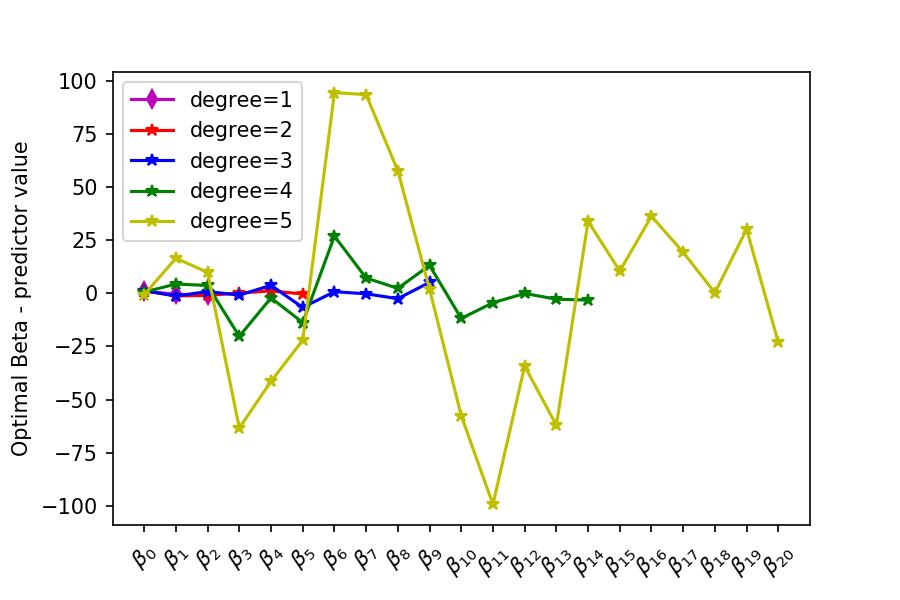
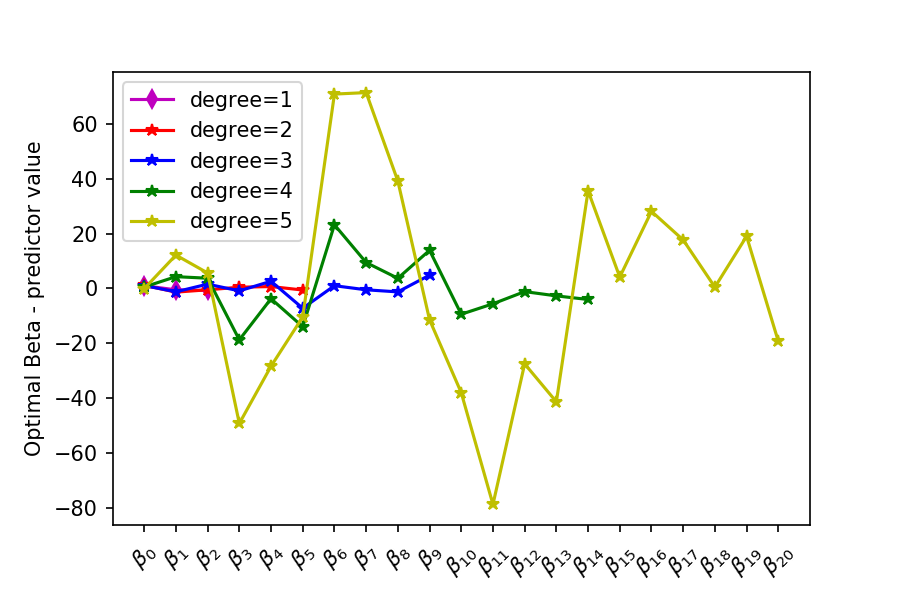
update Ridge Bootstrap

diff --git a/Project1/Ridge_bootstrap.py b/Project1/Ridge_bootstrap.py
@@ -1,6 +1,4 @@
-###This program performs Ordinary least square regression on a synthetic dataset generated by the Franke Function
-###and returns model evalutation (MSE and R2) and optimal predictor
-###The loop is on polynomial degree
+
 ###Author: R Corseri
 
 import numpy as np
@@ -11,16 +9,21 @@ from sklearn.preprocessing import PolynomialFeatures, StandardScaler
 from sklearn.pipeline import Pipeline
 from sklearn.utils import resample
 
-from functions import LinReg
+from functions import LinReg, RidgeReg
 from DesignMatrix import DesignMatrix
 import FrankeFunction as FF
 
 
 #Model complexity - polynomial degree up to 10
-maxdegree= 10
+maxdegree= 5
 
 #Number of bootstraps
 n_bootstraps = 50
+
+#For Ridge regression, set up the hyper-parameters to investigate
+nlambdas = 9
+lambdas = np.logspace(-4, 4, nlambdas)
+
 
 # Make data set.
 n = 100
@@ -65,46 +68,45 @@ polydegree = np.zeros(maxdegree)
 
 #Initialize bootstrap matrice
 y_pred = np.empty((y_test.shape[0],n_bootstraps))
-#Y_test = np.empty((y_test.shape[0],n_bootstraps))
-
 
 
 #OLS
-for degree in range(maxdegree):
+for l in range(nlambdas):
+    for degree in range(maxdegree):   
+        for i in range(n_bootstraps):
+            x_, y_ = resample(x_train,y_train)
+      
+            X_train = DesignMatrix(x_[:,0],x_[:,1],degree+1)
+            X_test = DesignMatrix(x_test[:,0],x_test[:,1],degree+1)
+            y_fit, y_pred[:,i], Beta = RidgeReg(X_train, X_test, y_, y_test,lambdas[l])
+                    
+        y_test = np.reshape(y_test, (len(y_test),1))
+        predictor=np.append(predictor,Beta)
+        polydegree[degree] = degree+1
+           
+        error[degree] = np.mean( np.mean((y_test - y_pred)**2, axis=1, keepdims=True) )
+        bias[degree] = np.mean( (y_test - np.mean(y_pred, axis=1, keepdims=True))**2 )
+        variance[degree] = np.mean( np.var(y_pred, axis=1, keepdims=True) )
     
-    for i in range(n_bootstraps):
-        x_, y_ = resample(x_train,y_train)
-  
-        X_train = DesignMatrix(x_[:,0],x_[:,1],degree+1)
-        X_test = DesignMatrix(x_test[:,0],x_test[:,1],degree+1)
-        y_fit, y_pred[:,i], Beta = LinReg(X_train, X_test, y_, y_test)
-                
-    y_test = np.reshape(y_test, (len(y_test),1))
-    predictor=np.append(predictor,Beta)
-    polydegree[degree] = degree+1
+    #####Plots for each lambda####
     
+    plt.plot(polydegree, error, label='Error')
+    plt.plot(polydegree, bias, label='bias')
+    plt.plot(polydegree, variance, label='Variance')
+    plt.xticks(np.arange(1, len(polydegree)+1, step=1))  # Set label locations.
+    plt.ylabel('Mean squared error')
+    plt.xlabel('Model complexity')
+    plt.title('Bias-Variance trade off (Ridge Reg) for lambda = %.0e' %lambdas[l])
+    plt.legend()
+    plt.savefig("Results/Ridge_Bias_Variance_trade_off_lambda=%.0e.png" %lambdas[l],dpi=150)
+    plt.show()
     
-    error[degree] = np.mean( np.mean((y_test - y_pred)**2, axis=1, keepdims=True) )
-    bias[degree] = np.mean( (y_test - np.mean(y_pred, axis=1, keepdims=True))**2 )
-    variance[degree] = np.mean( np.var(y_pred, axis=1, keepdims=True) )
+#Plot Error vs Lamba for a given model complexity, here degree=5
     
-#    print('Polynomial degree', polydegree)
-#    print('Error:', error)
-#    print('Bias^2:', bias)
-#    print('Var:', variance)
-#    print('{} >= {} + {} = {}'.format(error, bias, variance, bias+variance))
+plt.plot(lambdas, )
     
 
-#####Plots####
-    
-plt.plot(polydegree, error, label='Error')
-plt.plot(polydegree, bias, label='bias')
-plt.plot(polydegree, variance, label='Variance')
-plt.xticks(np.arange(1, len(polydegree)+1, step=1))  # Set label locations.
-plt.xlabel('Model complexity')
-plt.legend()
-plt.savefig("Results/Error_bias_var.png",dpi=150)
-plt.show()
+
 
 
 

diff --git a/Project1/OLS_owncode.py b/Project1/OLS_owncode.py
@@ -29,7 +29,7 @@ x2 = np.random.uniform(0,1,n)
 y = FF.FrankeFunction(x1,x2)
 
 #Add normally distributed noise
-y = y + np.random.normal(0,0.1,y.shape)
+#y = y + np.random.normal(0,0.1,y.shape)
 
 x1 = np.array(x1).reshape(n,1)
 x2 = np.array(x2).reshape(n,1)
@@ -111,17 +111,17 @@ plt.xticks(np.arange(1, maxdegree+1, step=1))  # Set label locations.
 plt.xlabel("model complexity (degree)")
 plt.ylabel("Mean squared error")
 plt.legend()
-plt.savefig("Results/MSE_vs_complexity.png",dpi=150)
+plt.savefig("Results/OLS_MSE_vs_complexity.png",dpi=150)
 plt.show()
 
 #R2 score
 plt.plot(polydegree, TestR2,'r-d', label='Test R2')
 plt.plot(polydegree, TrainR2, 'b-d',label='Train R2')
-plt.xticks(np.arange(1, maxdegree+1, step=1))  # Set label locations.
+plt.xticks(np.arange(1, len(polydegree)+1, step=1))  # Set label locations.
 plt.xlabel("model complexity (degree)")
 plt.ylabel("R2 score")
 plt.legend()
-plt.savefig("Results/R2_vs_complexity.png",dpi=150)
+plt.savefig("Results/OLS_R2_vs_complexity.png",dpi=150)
 plt.show()
 
 #Beta coefficients
@@ -149,7 +149,7 @@ plt.xticks(np.arange(21), [r'$\beta_0$', r'$\beta_1$', r'$\beta_2$', \
 
 plt.ylabel("Optimal Beta - predictor value")
 plt.legend()
-plt.savefig("Results/Optimal_predictor.png",dpi=150)
+plt.savefig("Results/OLS_Beta_Optimal_degree5.png",dpi=150)
 
 
 

diff --git a/Project1/OLS_scikit.py b/Project1/OLS_scikit.py
@@ -107,17 +107,17 @@ plt.plot(polydegree, TrainError,'b-o', label='Train MSError')
 plt.xlabel("model complexity (degree)")
 plt.ylabel("Mean squared error")
 plt.legend()
-plt.savefig("Results/MSE_vs_complexity_scikit.png",dpi=150)
+plt.savefig("Results/OLS_scikit_MSE_vs_complexity.png",dpi=150)
 plt.show()
 
 #R2 score
 plt.plot(polydegree, TestR2,'r-d', label='Test R2')
 plt.plot(polydegree, TrainR2, 'b-d',label='Train R2')
-plt.xticks(np.arange(1, 6, step=1))  # Set label locations.
+plt.xticks(np.arange(1, len(polydegree)+1, step=1)) # Set label locations.
 plt.xlabel("model complexity (degree)")
 plt.ylabel("R2 score")
 plt.legend()
-plt.savefig("Results/R2_vs_complexity_scikit.png",dpi=150)
+plt.savefig("Results/OLS_scikit_R2_vs_complexity.png",dpi=150)
 plt.show()
 
 #Beta coefficients
@@ -145,7 +145,7 @@ plt.xticks(np.arange(21), [r'$\beta_0$', r'$\beta_1$', r'$\beta_2$', \
 
 plt.ylabel("Optimal Beta - predictor value")
 plt.legend()
-plt.savefig("Results/Optimal_predictor_scikit.png",dpi=150)
+plt.savefig("Results/OLS_Optimal_Beta_scikit.png",dpi=150)
 
 
 

diff --git a/Project1/OLS_CrossValidation.py b/Project1/OLS_CrossValidation.py
@@ -46,15 +46,12 @@ x = np.hstack((x1,x2)).reshape(n,2)
 #x_test = x_test - x_train_mean
 #y_test = y_test - y_train_mean
 
-
-
 #Initialize before looping:
 polydegree = np.zeros(maxdegree)
 error_Kfold = np.zeros((maxdegree,k))
 estimated_mse_Kfold = np.zeros(maxdegree)
 bias = np.zeros(maxdegree)
 variance = np.zeros(maxdegree)
-
 
 
 i=0
@@ -86,10 +83,11 @@ for degree in range(maxdegree):
 #####Plots####
     
 plt.plot(polydegree, estimated_mse_Kfold, label='Error Cross Validation')
-plt.xticks(np.arange(1, 6, step=1))  # Set label locations.
+plt.xticks(np.arange(1, len(polydegree)+1, step=1))  # Set label locations.
 plt.xlabel('Model complexity')
+plt.ylabel('Mean squared error')
 plt.legend()
-plt.savefig("Results/Error_CrossValidation.png",dpi=150)
+plt.savefig("Results/OLS_Error_CrossValidation.png",dpi=150)
 plt.show()
 
 

diff --git a/Project1/Plot_FrankeFunction.py b/Project1/Plot_FrankeFunction.py
@@ -20,7 +20,7 @@ def FrankeFunction_noisy(x,y):
     term2 = 0.75*np.exp(-((9*x+1)**2)/49.0 - 0.1*(9*y+1))
     term3 = 0.5*np.exp(-(9*x-7)**2/4.0 - 0.25*((9*y-3)**2))
     term4 = -0.2*np.exp(-(9*x-4)**2 - (9*y-7)**2)
-    noise = np.random.normal(0, 0.001,len(x)*len(x)) 
+    noise = np.random.normal(0, 0.1,len(x)*len(x)) 
     noise = noise.reshape(len(x),len(x))
     return term1 + term2 + term3 + term4 + noise
 
@@ -32,7 +32,7 @@ def FrankeFunction(x,y):
 	return term1 + term2 + term3 + term4 
 
 
-z = FrankeFunction(x, y) + np.random.normal(0,0.1,(100,100))
+z = FrankeFunction(x, y)
 
 # Plot the surface.
 surf = ax.plot_surface(x, y, z, cmap=cm.coolwarm, linewidth=0, antialiased=False)

diff --git a/Project1/functions.py b/Project1/functions.py
@@ -20,3 +20,11 @@ def LinReg(X_train, X_test, y_train, y_test):
     ytildeTrain = X_train @ OLSbeta
     ytildeTest = X_test @ OLSbeta
     return ytildeTrain, ytildeTest, OLSbeta
+
+
+def RidgeReg(X_train, X_test, y_train, y_test,lmb):
+    Ridgebeta = np.linalg.pinv(X_train.T @ X_train + lmb*np.identity(X_train.shape[1])) @ X_train.T @ y_train
+    ytildeTrain = X_train @ Ridgebeta
+    ytildeTest = X_test @ Ridgebeta
+    return ytildeTrain, ytildeTest, Ridgebeta
+
